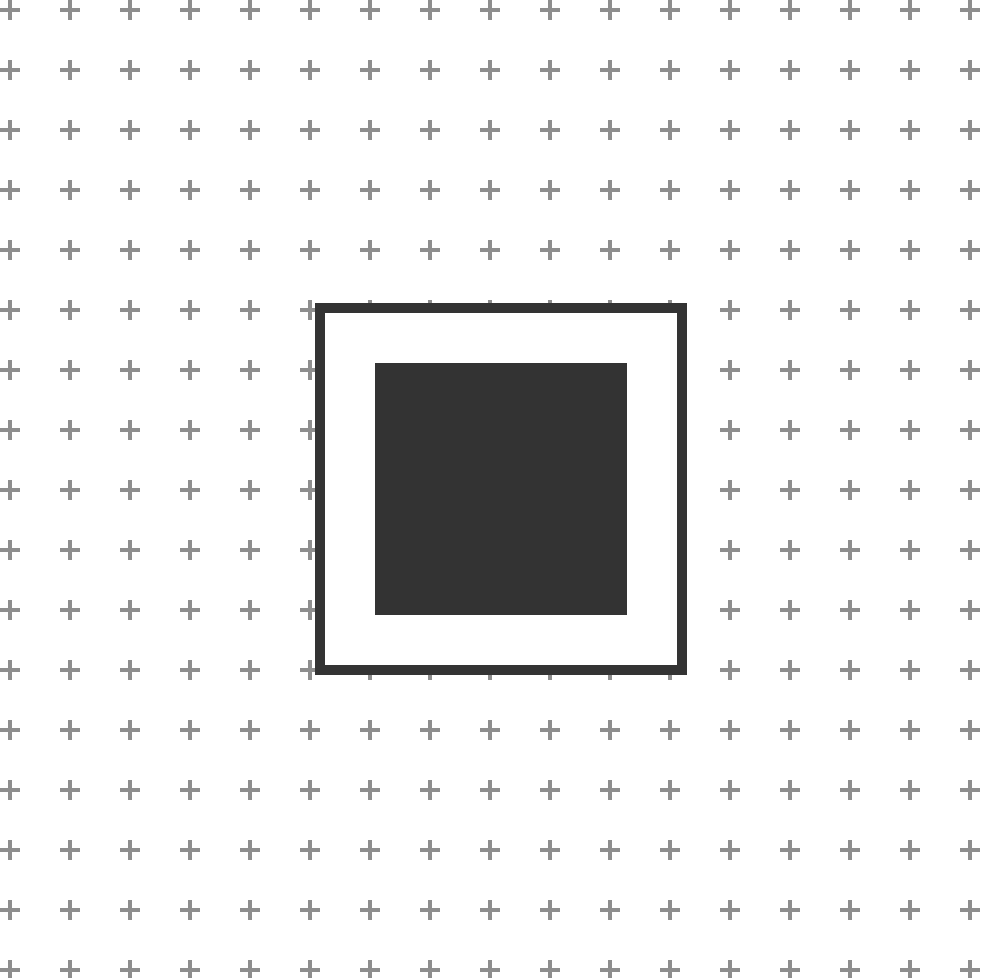
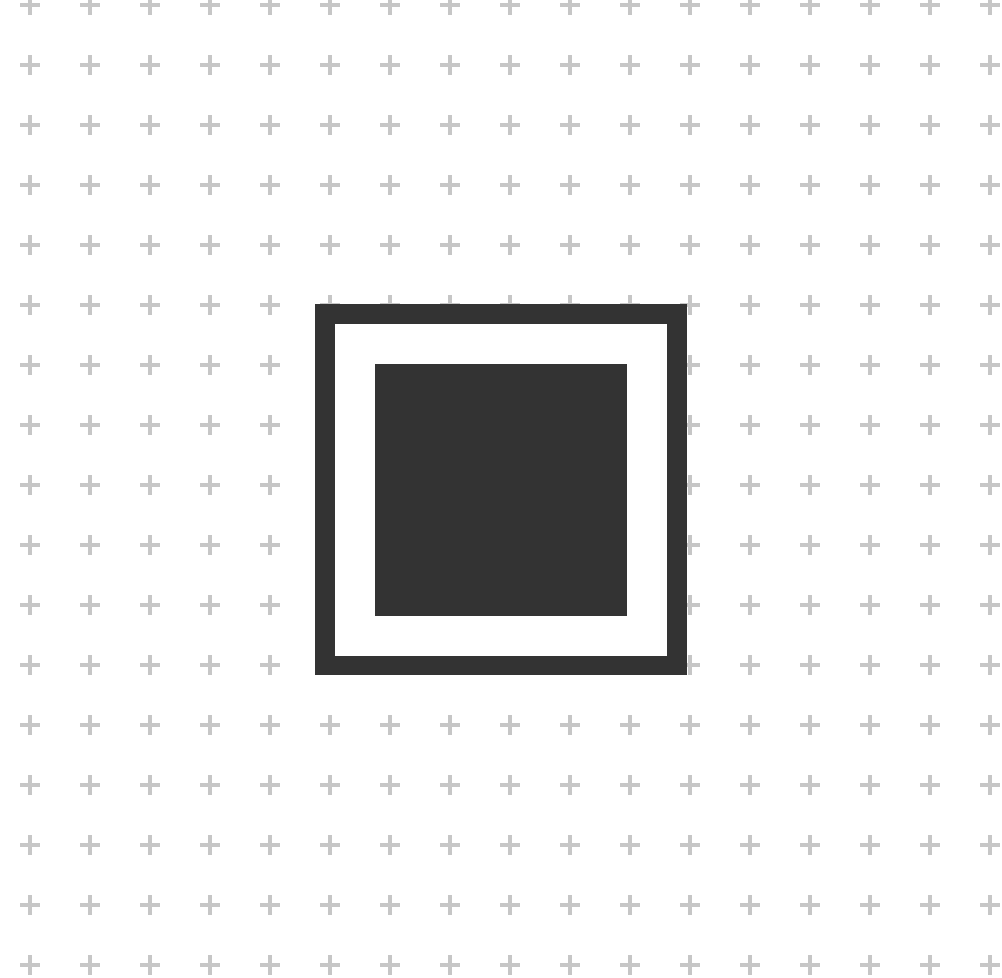
added profile page draft

diff --git a/src/pages/[user]/index.js b/src/pages/[user]/index.js
@@ -1,5 +1,7 @@
 import ProjectCard from '../../modules/profile/ProjectCard'
 import Head from 'next/head'
+import Footer from '../../components/Footer'
+import {useRouter} from 'next/router'
 
 const host = process.env.NODE_ENV == 'development' ? 'http://localhost:3000' : `https://${process.env.VERCEL_URL}`
 
@@ -21,29 +23,13 @@ export async function getServerSideProps({ params }) {
   
   }
 
-function Cards(props){
 
-    const projects = props.data
-    const userLink = props.user
-    // console.log(userLink)
-
-    return(
-        <div class="flex flex-wrap ">
-            {projects.map(project => (
-                <ProjectCard 
-                    source={project.Source}
-                    projectName={project.ProjectName}
-                    link={`/${userLink}/${project.ProjectName}`}
-                />
-            ))}
-        </div>
-    )
-}
 
 function Profile(props) {
+    const router = useRouter()
     
     return (
-        <div>
+        <div class="">
             <Head>
                 <title>{props.user}</title>
                 <meta name="viewport" content="initial-scale=1.0, width=device-width"/>\
@@ -52,11 +38,78 @@ function Profile(props) {
                 <meta property="og:url" content={`www.productspace.now.sh/${props.user}/`} />
                 <meta property="og:description" content={`${props.user}'s profile page`} />
             </Head>
-            <div class="bg-white min-h-screen px-8 py-8">
-                <Cards data={props.ProjectData} user={props.user}/>
+
+            <Navbar/>
+
+            <div class="bg-accent1">
+                <div class="flex flex-wrap h-full min-h-screen ">
+                    <div class="sm:w-2/3 w-full py-6 ">
+                        <Cards data={props.ProjectData} user={props.user}/>
+                    </div>
+                    <div class="bg-white border-accent2 border-b-0 border-t-1 sm:border-l-1 sm:border-t-0 sm:w-1/3 py-8 text-center w-full ">
+                        <div class="px-4">
+                            Sample side bar with profile details...
+                        </div>
+                    </div>
+                </div>
             </div>
+            <Footer/>
+
         </div>
     );
+}
+
+function Cards(props){
+
+    const projects = props.data
+    const userLink = props.user
+    // console.log(userLink)
+
+    return(
+        <div class="flex flex-col justify-center">
+            {projects.map(project => (
+                <div class="p-4">
+                    <ProjectCard
+                        source={project.Source}
+                        projectName={project.ProjectName}
+                        link={`/${userLink}/${project.ProjectName}`}
+                    />
+                </div>
+            ))}
+        </div>
+    )
+}
+
+function Navbar(){
+    return (
+    <nav class="bg-white border border-b-1 border-accent2">
+    <div class="max-w-7xl mx-auto px-2 sm:px-6 lg:px-8">
+        <div class="relative flex items-center justify-between h-16">
+            <div class="flex-1 flex items-center justify-around sm:items-stretch sm:justify-start">
+                <div class="flex-shrink-0">
+                    <a href="/">
+                        <svg class="w-auto h-8" viewBox="0 0 372 371" fill="none" xmlns="http://www.w3.org/2000/svg"><g clip-path="url(#clip0)"><path fill="#fff" stroke="#333" stroke-width="20" d="M10 10h352v352H10z"/><path fill="#333" d="M60 60h252v252H60z"/></g><defs><clipPath id="clip0"><path fill="#fff" d="M0 0h372v371H0z"/></clipPath></defs></svg>
+                    </a>
+                </div>
+                <div class="ml-6">
+                    <div class="flex">
+                        <span href="#" class="hidden sm:block px-3 py-2 rounded-md items-center text-base font-medium leading-5 text-accent7 focus:outline-none transition duration-150 ease-in-out">Dashboard</span>
+                    </div>
+                </div>
+            </div>
+            <div class="ml-6">
+                <div class="flex">
+                    <a href="#" class="mx-4 px-3 py-2 rounded-md flex items-center justify-center text-base font-medium leading-5 text-accent5 border border-accent2 hover:text-black hover:border-accent8 focus:outline-none transition duration-150 ease-in-out">
+                        <svg class="h-5 w-5" xmlns="http://www.w3.org/2000/svg" fill="none" stroke="currentColor" stroke-width="2" stroke-linecap="round" stroke-linejoin="round" viewBox="0 0 24 24"><path d="M20 21v-2a4 4 0 00-4-4H8a4 4 0 00-4 4v2"/><circle cx="12" cy="7" r="4"/></svg>
+                        <span class="pl-2">Profile</span>
+                    </a>
+                </div>
+            </div>
+
+        </div>
+    </div>
+    </nav>
+    )
 }
 
 export default Profile;

diff --git a/src/modules/profile/ProjectCard.js b/src/modules/profile/ProjectCard.js
@@ -3,15 +3,16 @@ import Link from 'next/link'
 function ProjectCard(props){
     const repo = props.source ? props.source.slice(19) : "";
     return (
-        <div class="max-w-lg w-full h-auto shadow-lg rounded-lg border border-accent1 m-4">
+        <div class="max-w-md w-full h-auto shadow-lg rounded-lg border border-accent1">
             <div class="flex justify-between items-center py-6 px-6">
                 <div class="font-bold text-2xl">
                     <Link class="cursor-pointer" href="/[user]/[project]" as={props.link}>{props.projectName}</Link>
                 </div>
-                <div class="cursor-pointer hidden sm:block">
+                <div class="cursor-pointer ">
                     <Link class="" href="/[user]/[project]" as={props.link}>
-                        <span class="text-accent5 text-sm border border-accent2 py-1 px-4 rounded-lg hover:border-accent5 hover:text-accent7 focus:outline-none transition duration-200 ease-in-out">
-                            Visit
+                        <span class="text-accent5 text-sm border flex items-center border-accent2 py-1 px-4 rounded-lg hover:border-accent5 hover:text-accent7 focus:outline-none transition duration-200 ease-in-out">
+                            <span class="hidden sm:block">Visit</span>
+                            <svg class="sm:hidden text-current h-4 w-auto" xmlns="http://www.w3.org/2000/svg" fill="none" stroke="currentColor" stroke-width="2" stroke-linecap="round" stroke-linejoin="round" viewBox="0 0 24 24"><path d="M10 13a5 5 0 007.54.54l3-3a5 5 0 00-7.07-7.07l-1.72 1.71"/><path d="M14 11a5 5 0 00-7.54-.54l-3 3a5 5 0 007.07 7.07l1.71-1.71"/></svg>
                         </span>
                     </Link>
                 </div>

diff --git a/src/pages/[user]/[project]/index.js b/src/pages/[user]/[project]/index.js
@@ -1,6 +1,7 @@
 import Template from '../../../modules/Template'
 import Head from 'next/head'
 import styles from '../../../assets/Markdown.module.css'
+import Footer from '../../../components/Footer'
 
 const host = process.env.NODE_ENV == 'development' ? 'http://localhost:3000' : `https://${process.env.VERCEL_URL}`
 
@@ -106,22 +107,6 @@ function Markdown(text){
 
 }
 
-function Footer(){
-  
 
-  return (
-    <div class="bg-accent1 border-t-1 border-accent2">
-      <div class="h-auto flex font-semibold text-sm text-accent6 md:px-12 p-3">
-        <div class="w-1/2 text-left">
-            <span>Made with ❤</span>
-        </div>
-        <div class=" w-1/2 text-right">
-            <span>2020. <b>Lv19</b></span>
-        </div>
-      </div>
-    </div>
-  )
-
-}
 
 export default ProjectPage;

diff --git a/src/components/Footer.js b/src/components/Footer.js
@@ -1,0 +1,17 @@
+export default function Footer(){
+  
+
+    return (
+      <div class="bg-accent1 border-t-1 border-accent2">
+        <div class="h-auto flex font-semibold text-sm text-accent6 md:px-12 p-3">
+          <div class="w-1/2 text-left">
+              <span>Made with ❤</span>
+          </div>
+          <div class=" w-1/2 text-right">
+              <span>2020. <b>Lv19</b></span>
+          </div>
+        </div>
+      </div>
+    )
+  
+  }
